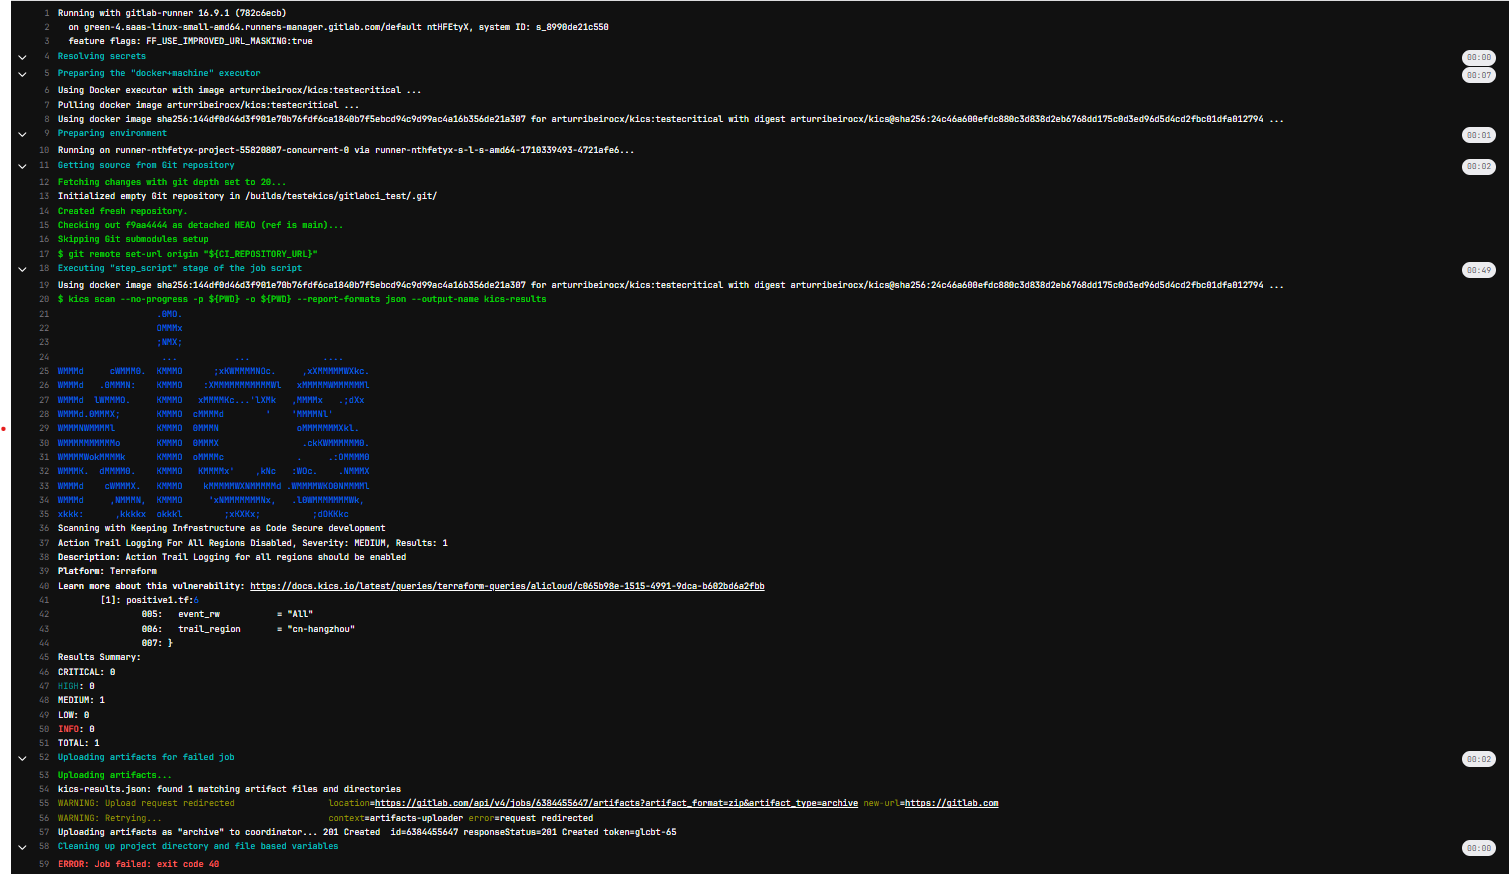
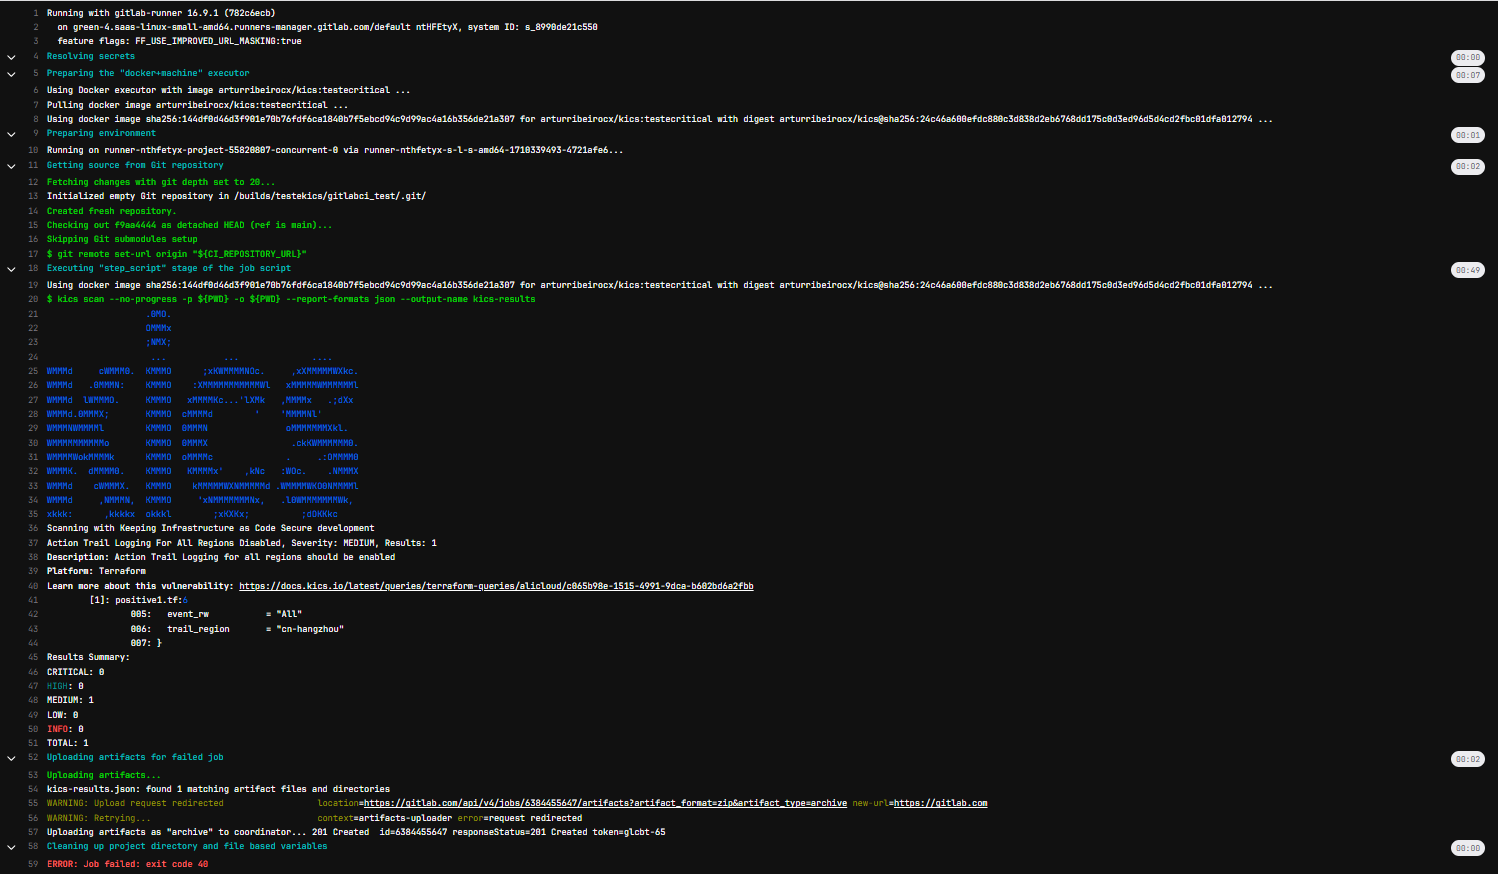
new image and links

Changed region(s): [[0.0, 0.0, 0.8291, 1.0]]

diff --git a/docs/integrations_gitlabci.md b/docs/integrations_gitlabci.md
@@ -50,7 +50,7 @@ When your pipeline executes, it will run this job. If KICS finds any issues, it 
 
 #### Download Artifact
 
-<img src="https://raw.githubusercontent.com/Checkmarx/kics/master/docs/img/kics_gitlab_pipeline_artifact.png" width="850">
+<img src="https://raw.githubusercontent.com/Checkmarx/kics/8bc382c83cca0f65de8d069a506baf60c2ccd862/docs/img/kics_gitlab_pipeline_artifact.png" width="850">
 
 ## Using GitLab SAST Reports
 
